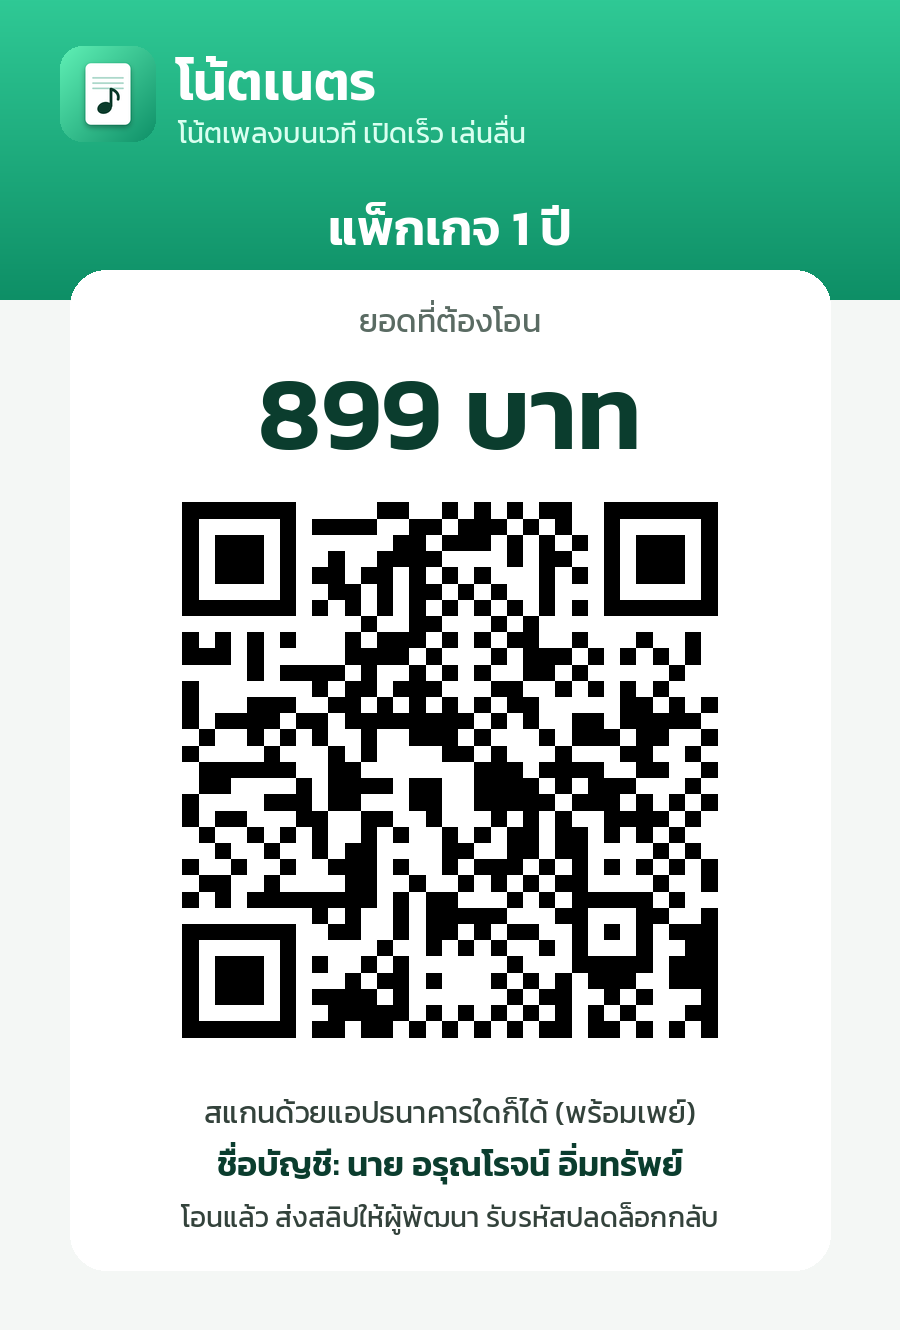
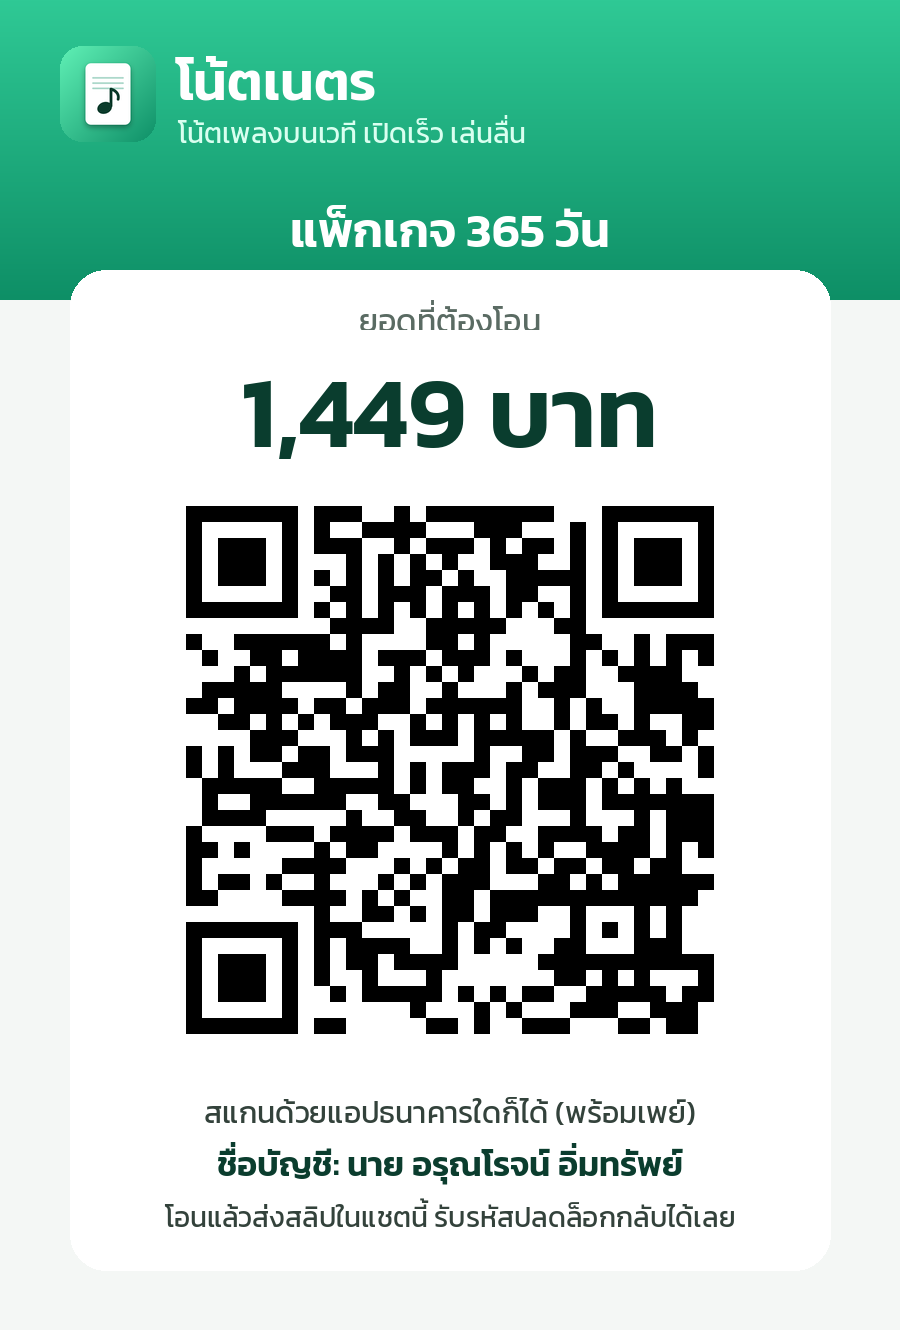
New prices (159/429/799/1449) written in days; new QR cards
Claude-Session: https://claude.ai/code/session_015BsCmPZcqHVtGbUCadF469

diff --git a/app.js b/app.js
@@ -7,7 +7,7 @@ const esc = s => String(s ?? '').replace(/[&<>"']/g, c => ({ '&': '&amp;', '<': 
 const uid = () => (crypto.randomUUID ? crypto.randomUUID() : Date.now().toString(36) + Math.random().toString(36).slice(2, 10));
 const nfc = s => String(s).normalize('NFC');
 const collator = new Intl.Collator('th', { numeric: true, sensitivity: 'base' });
-const BUILD = 'sheet-2026-11-26-za';
+const BUILD = 'sheet-2026-11-26-zb';
 /* quiet activity log: the last events are kept so we can see what happened before a freeze */
 const LOG = { a: [], prev: [], prevClean: true };
 try { LOG.prev = JSON.parse(localStorage.getItem('sheet:log') || '[]'); LOG.prevClean = localStorage.getItem('sheet:clean') !== '0'; localStorage.setItem('sheet:clean', '0'); } catch { /* storage blocked */ }
@@ -1865,17 +1865,17 @@ async function licRedeem(text) {
 }
 const licLeftText = st => st.mode === 'owner' ? 'เครื่องเจ้าของ ใช้ฟรีตลอด' : st.mode === 'paid' ? `ใช้ได้ถึง ${dayStr(st.exp)} (อีก ${st.left} วัน)` : st.mode === 'trial' ? `ทดลองใช้ เหลือ ${st.left} วัน` : st.mode === 'grace' ? `รหัสหมดอายุแล้ว ผ่อนผันให้ใช้ต่ออีก ${st.left} วัน ต่ออายุได้ที่นี่` : st.why === 'expired' ? 'รหัสหมดอายุแล้ว' : 'หมดช่วงทดลองใช้แล้ว';
 /* the sales page: plans with the saving shown, and a button that opens LINE with the message already written */
-LIC.MONTH = 99;
+LIC.MONTH = 159;
 LIC.LINE = { id: '@700fggkk', oa: true };
 LIC.CONTACTS = [
   { label: 'LINE Official Account', value: '@700fggkk', open: 'https://line.me/R/ti/p/%40700fggkk', btn: 'เปิด LINE', color: '#06c755' },
   { label: 'Facebook เพจ · เปิดเพจ แล้วกด “ส่งข้อความ”', value: 'โน้ตเนตร', open: 'https://www.facebook.com/share/1BCz1P7CxT/', copy: 'https://www.facebook.com/share/1BCz1P7CxT/', btn: 'เปิดเพจ', color: '#1877f2' },
 ]; // where a customer can send the slip when the buy button cannot open LINE // LINE id (with @ for an Official Account); empty = just copy the message
 LIC.PLANS = [
-  { d: 30, m: 1, name: '1 เดือน', price: 99, tag: 'เริ่มต้นง่าย ๆ', qr: 'pay-1month.png' },
-  { d: 90, m: 3, name: '3 เดือน', price: 269, qr: 'pay-3months.png' },
-  { d: 180, m: 6, name: '6 เดือน', price: 499, badge: 'ยอดนิยม', qr: 'pay-6months.png' },
-  { d: 365, m: 12, name: '1 ปี', price: 899, badge: 'คุ้มที่สุด', qr: 'pay-1year.png' },
+  { d: 30, m: 1, name: '30 วัน', price: 159, tag: 'เริ่มต้นง่าย ๆ', qr: 'pay-1month.png' },
+  { d: 90, m: 3, name: '90 วัน', price: 429, qr: 'pay-3months.png' },
+  { d: 180, m: 6, name: '180 วัน', price: 799, badge: 'ยอดนิยม', qr: 'pay-6months.png' },
+  { d: 365, m: 12, name: '365 วัน', price: 1449, badge: 'คุ้มที่สุด', qr: 'pay-1year.png' },
 ];
 const planInfo = p => { const full = LIC.MONTH * p.m, save = full - p.price, pct = Math.round(save / full * 100); return { full, save, pct, per: Math.round(p.price / p.m), day: (p.price / p.d).toFixed(1) }; };
 function plansHTML(sel) {
@@ -1883,7 +1883,7 @@ function plansHTML(sel) {
     return `<button class="plan${i === sel ? ' on' : ''}${p.badge ? ' hot' : ''}" data-p="${i}"><span class="rd"></span>${p.badge ? `<span class="bdg">${p.badge}</span>` : ''}
       <div class="pl"><b>${p.name}</b>${f.pct ? `<span class="sv">ประหยัด ${f.pct}%</span>` : `<span class="tg">${p.tag || ''}</span>`}</div>
       <div class="pr">${f.pct ? `<s>${f.full}</s>` : ''}<strong>${p.price}</strong><em>บาท</em></div>
-      <div class="pm">${f.pct ? `เฉลี่ยเพียง <b>${f.per} บาท/เดือน</b>${p.m === 12 ? ` · ตกวันละ ${f.day} บาท` : ''}` : `เดือนละ ${f.per} บาท เปลี่ยนแพ็กเกจได้ทุกเมื่อ`}</div></button>`; }).join('')}</div>`;
+      <div class="pm">${f.pct ? `เฉลี่ยเพียง <b>วันละ ${f.day} บาท</b>` : `วันละ ${f.day} บาท · เปลี่ยนแพ็กเกจได้ทุกเมื่อ`}</div></button>`; }).join('')}</div>`;
 }
 function licPage(pfx, collapsed) {
   const code = `<textarea id="${pfx}c" rows="3" placeholder="วางรหัสปลดล็อกที่นี่" autocomplete="off" autocapitalize="off" spellcheck="false"></textarea><div id="${pfx}m" class="licm"></div>
@@ -1961,7 +1961,7 @@ async function ownerIssue(days, note, redeemDays = 90, dev = null) { // dev: 5 b
   list.unshift({ code, days, real, note: note || '', day: dayNum(), dev: dev ? devFmt(b32enc(dev)) : '' }); try { localStorage.setItem(LIC.ISSUED, JSON.stringify(list.slice(0, 200))); } catch { /* storage */ }
   return code;
 }
-const planName = d => ({ 7: 'ทดลอง 7 วัน', 30: '1 เดือน', 90: '3 เดือน', 180: '6 เดือน', 365: '1 ปี', 3650: '10 ปี' })[d] || (d + ' วัน');
+const planName = d => ({ 7: 'ทดลอง 7 วัน', 30: '30 วัน', 90: '90 วัน', 180: '180 วัน', 365: '365 วัน', 3650: '10 ปี' })[d] || (d + ' วัน');
 const licMessage = (code, days, day) => `ขอบคุณที่สนับสนุนโน้ตเนตรครับ 🙏
 นี่คือรหัสปลดล็อก แพ็กเกจ ${planName(days)}
 ใช้ได้ถึง ${dayStr((day == null ? dayNum() : day) + days - 1)} (นับวันตั้งแต่วันที่ออกรหัส)
@@ -1987,13 +1987,13 @@ function openOwner(onclose) {
       <p class="sub">เครื่องนี้เป็นเครื่องเจ้าของ ใช้ฟรีตลอด</p>
       <p class="sub">กุญแจตรวจรหัส (ส่งให้ผู้พัฒนาฝังในแอป ไม่ใช่ความลับ):</p><textarea class="field" readonly rows="2" id="ownPub">${esc(o.pub)}</textarea><button class="btn o sm" data-o="cpub">คัดลอกกุญแจตรวจรหัส</button>
       <h3 style="margin-top:16px">ออกรหัสให้ผู้ใช้</h3>
-      <div class="pills" id="ownDur">${[[7, 'ทดลอง 7 วัน'], [30, '1 เดือน'], [90, '3 เดือน'], [180, '6 เดือน'], [365, '1 ปี'], [3650, '10 ปี']].map(([d, t]) => `<button data-d="${d}" class="${d === 30 ? 'on' : ''}">${t}</button>`).join('')}</div>
+      <div class="pills" id="ownDur">${[[7, 'ทดลอง 7 วัน'], [30, '30 วัน'], [90, '90 วัน'], [180, '180 วัน'], [365, '365 วัน'], [3650, '10 ปี']].map(([d, t]) => `<button data-d="${d}" class="${d === 30 ? 'on' : ''}">${t}</button>`).join('')}</div>
       <input class="field" id="ownNote" placeholder="ชื่อผู้ใช้ (จดไว้เอง ไม่ใส่ก็ได้)" maxlength="40" style="margin-top:8px">
       <div class="pills" id="ownBind" style="margin-top:8px"><button data-b="0" class="on">ใช้ได้ทุกเครื่อง (ปกติ)</button><button data-b="1">ผูกกับเครื่องเดียว</button></div>
       <input class="field" id="ownDev" placeholder="รหัสเครื่องของลูกค้า เช่น K7QM-4TDA" maxlength="12" autocapitalize="characters" spellcheck="false" style="margin-top:8px;display:none">
       <button class="btn" data-o="issue" style="width:100%;margin-top:8px">ออกรหัส</button>
       <div id="ownOut"></div>
-      ${list.length ? `<h3 style="margin-top:16px">รหัสที่เคยออก (${list.length})</h3><div class="ownlist">${list.slice(0, 30).map((x, i) => `<div class="lrow"><div class="nm">${esc(x.note || '(ไม่ได้ใส่ชื่อ)')}<small>${x.days >= 3650 ? '10 ปี' : ({ 30: '1 เดือน', 90: '3 เดือน', 180: '6 เดือน', 365: '1 ปี' })[x.days] || (x.days + ' วัน')}${x.dev ? ' · เครื่อง ' + x.dev : ' · ไม่ผูกเครื่อง'} · ออกเมื่อ ${dayStr(x.day)} · ถึง ${dayStr(x.day + (x.real || x.days) - 1)}${(x.real || x.days) > x.days ? ' (แถม ' + ((x.real || x.days) - x.days) + ' วัน)' : ''}</small></div><button class="btn o sm" data-o="cp" data-i="${i}">คัดลอกข้อความ</button></div>`).join('')}</div>` : ''}
+      ${list.length ? `<h3 style="margin-top:16px">รหัสที่เคยออก (${list.length})</h3><div class="ownlist">${list.slice(0, 30).map((x, i) => `<div class="lrow"><div class="nm">${esc(x.note || '(ไม่ได้ใส่ชื่อ)')}<small>${x.days >= 3650 ? '10 ปี' : ({ 30: '30 วัน', 90: '90 วัน', 180: '180 วัน', 365: '365 วัน' })[x.days] || (x.days + ' วัน')}${x.dev ? ' · เครื่อง ' + x.dev : ' · ไม่ผูกเครื่อง'} · ออกเมื่อ ${dayStr(x.day)} · ถึง ${dayStr(x.day + (x.real || x.days) - 1)}${(x.real || x.days) > x.days ? ' (แถม ' + ((x.real || x.days) - x.days) + ' วัน)' : ''}</small></div><button class="btn o sm" data-o="cp" data-i="${i}">คัดลอกข้อความ</button></div>`).join('')}</div>` : ''}
       <h3 style="margin-top:16px">กุญแจสำรอง (ลับ!)</h3><p class="sub">เก็บไว้ที่ปลอดภัย (เช่นโน้ตส่วนตัว) ถ้ากุญแจหายและไม่มีสำรอง จะออกรหัสใหม่ที่ใช้กับแอปนี้ไม่ได้อีก ห้ามส่งให้ใคร</p>
       <button class="btn o sm" data-o="bak">คัดลอกกุญแจสำรอง</button>
       <h3 style="margin-top:16px">ใช้กุญแจสำรองแทน</h3><p class="sub">ถ้ากุญแจในเครื่องนี้ไม่ใช่ของแอป (เช่นสร้างผิดครั้ง) วางกุญแจสำรองที่เก็บไว้ที่นี่</p><textarea class="field" id="ownImp" rows="3" placeholder="วางกุญแจสำรอง" spellcheck="false"></textarea><button class="btn o sm" data-o="imp" style="margin-top:8px">ใช้กุญแจสำรองนี้</button>`;
